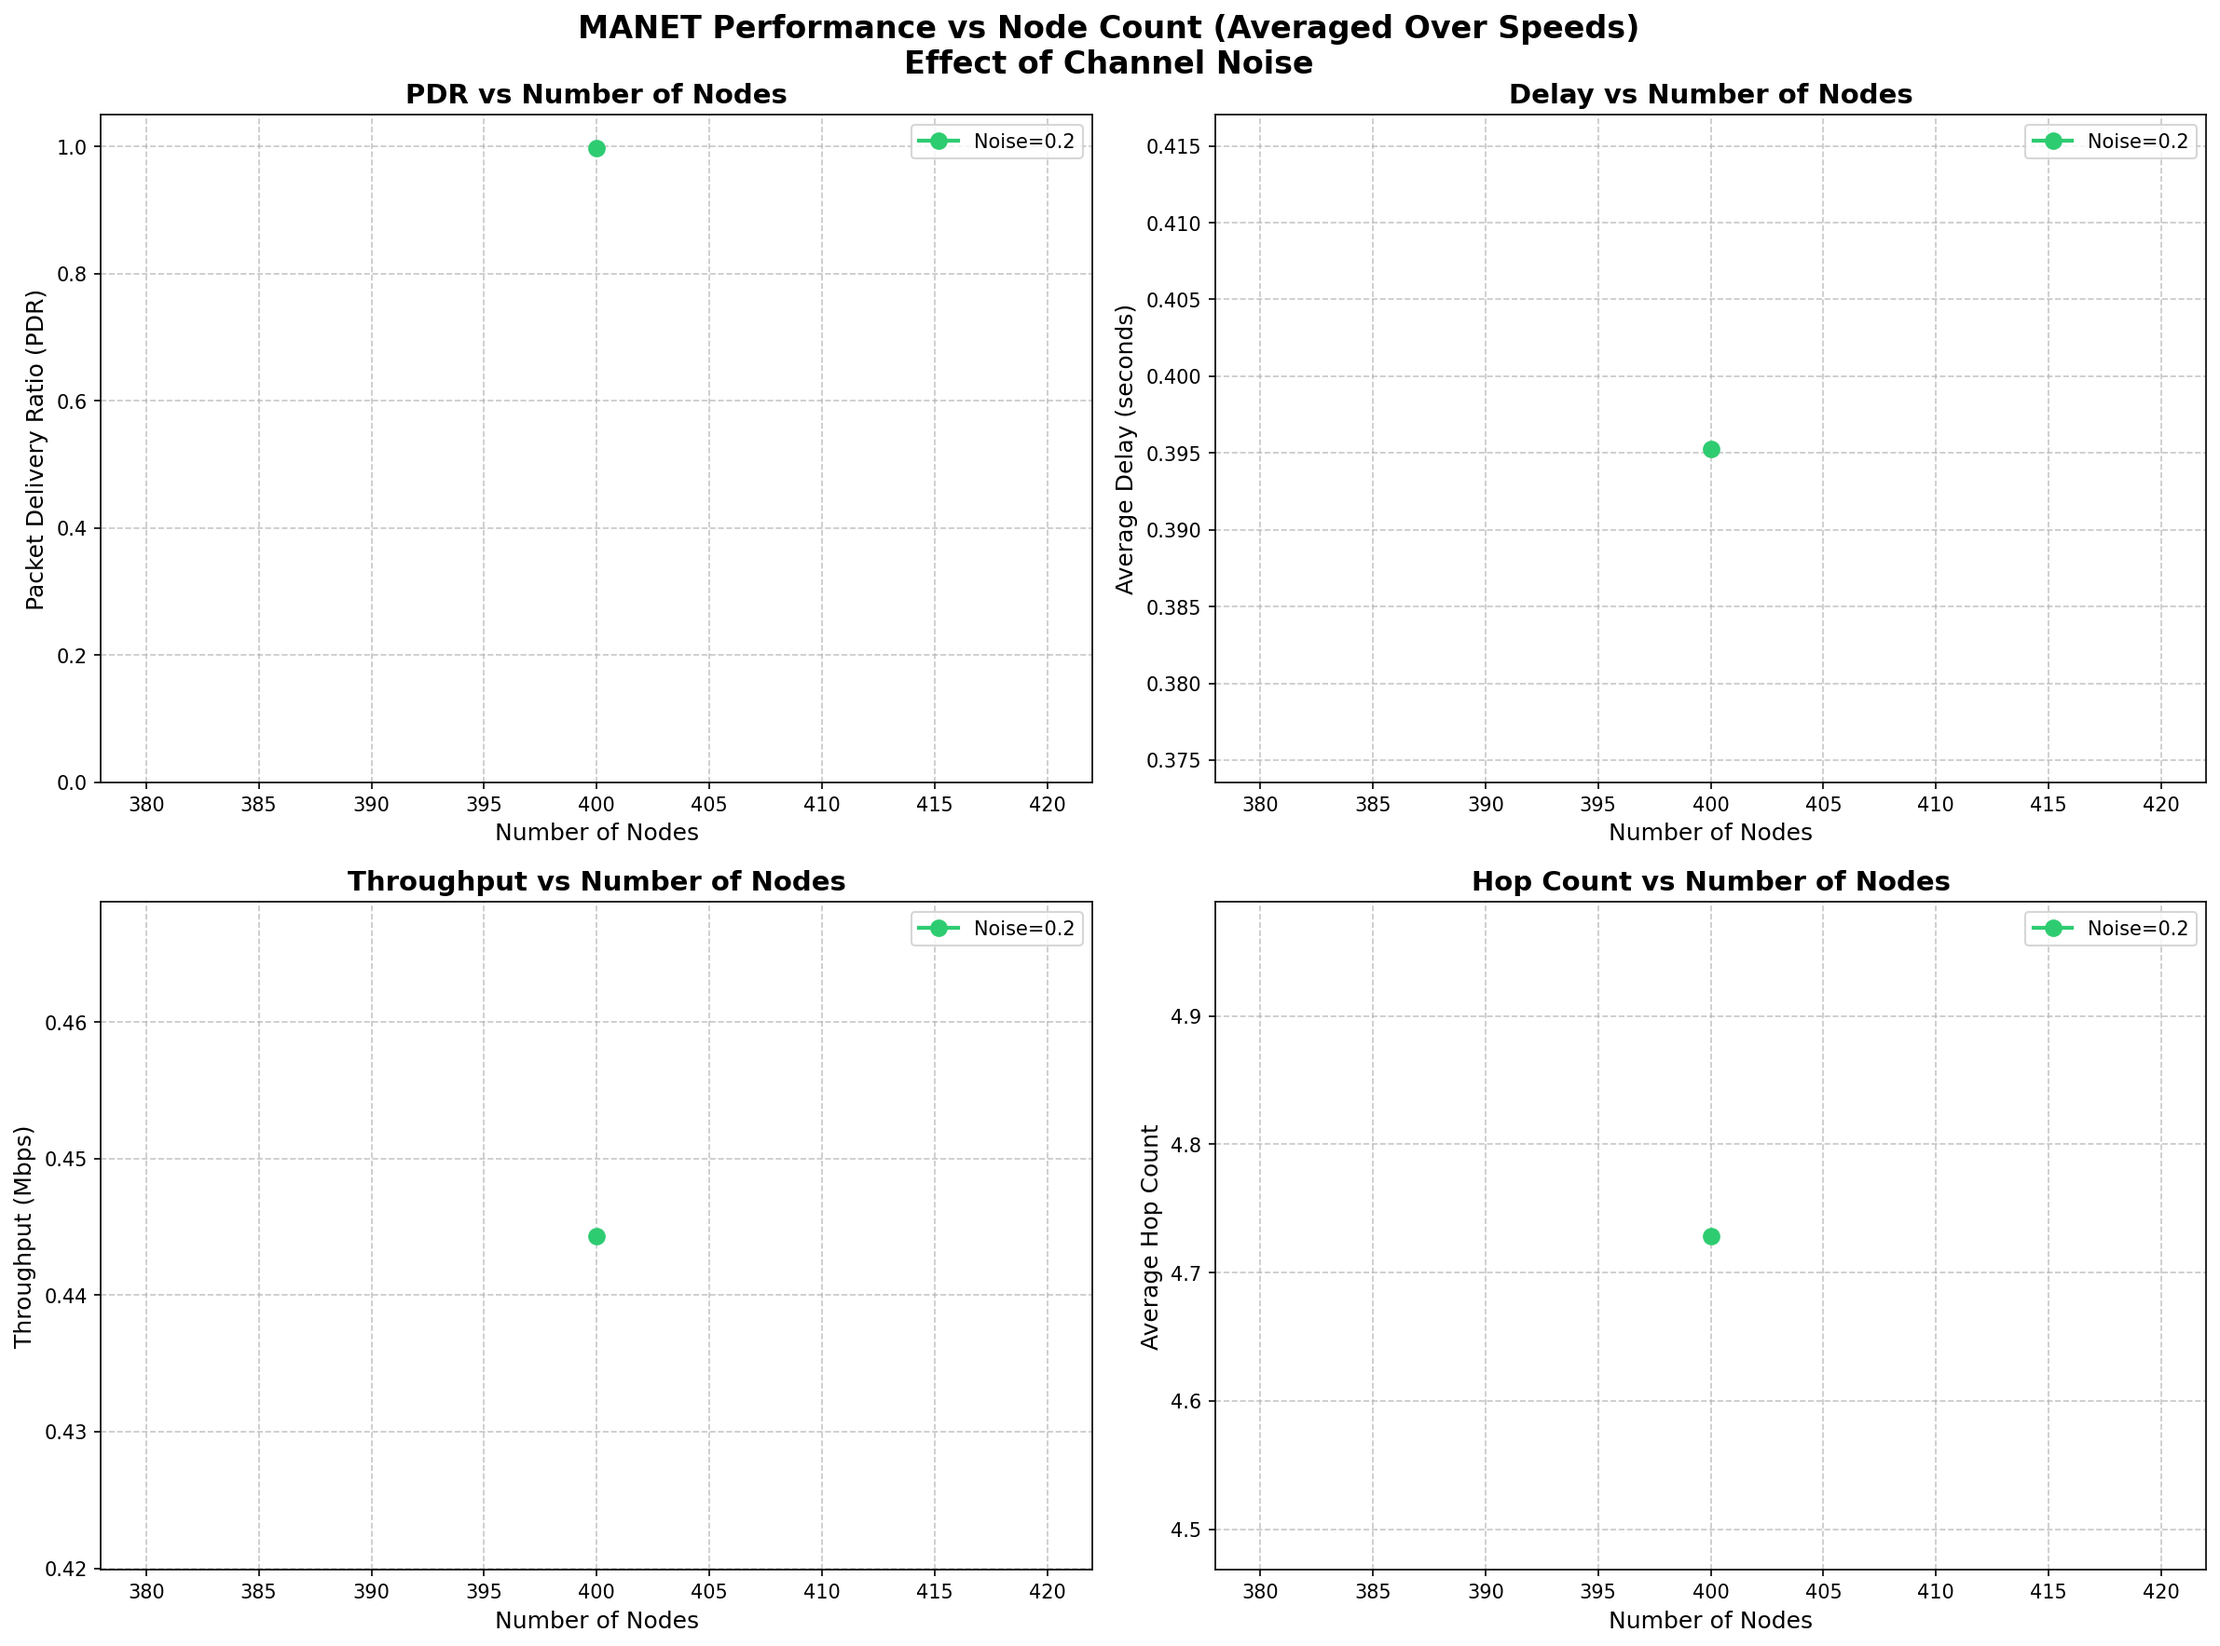
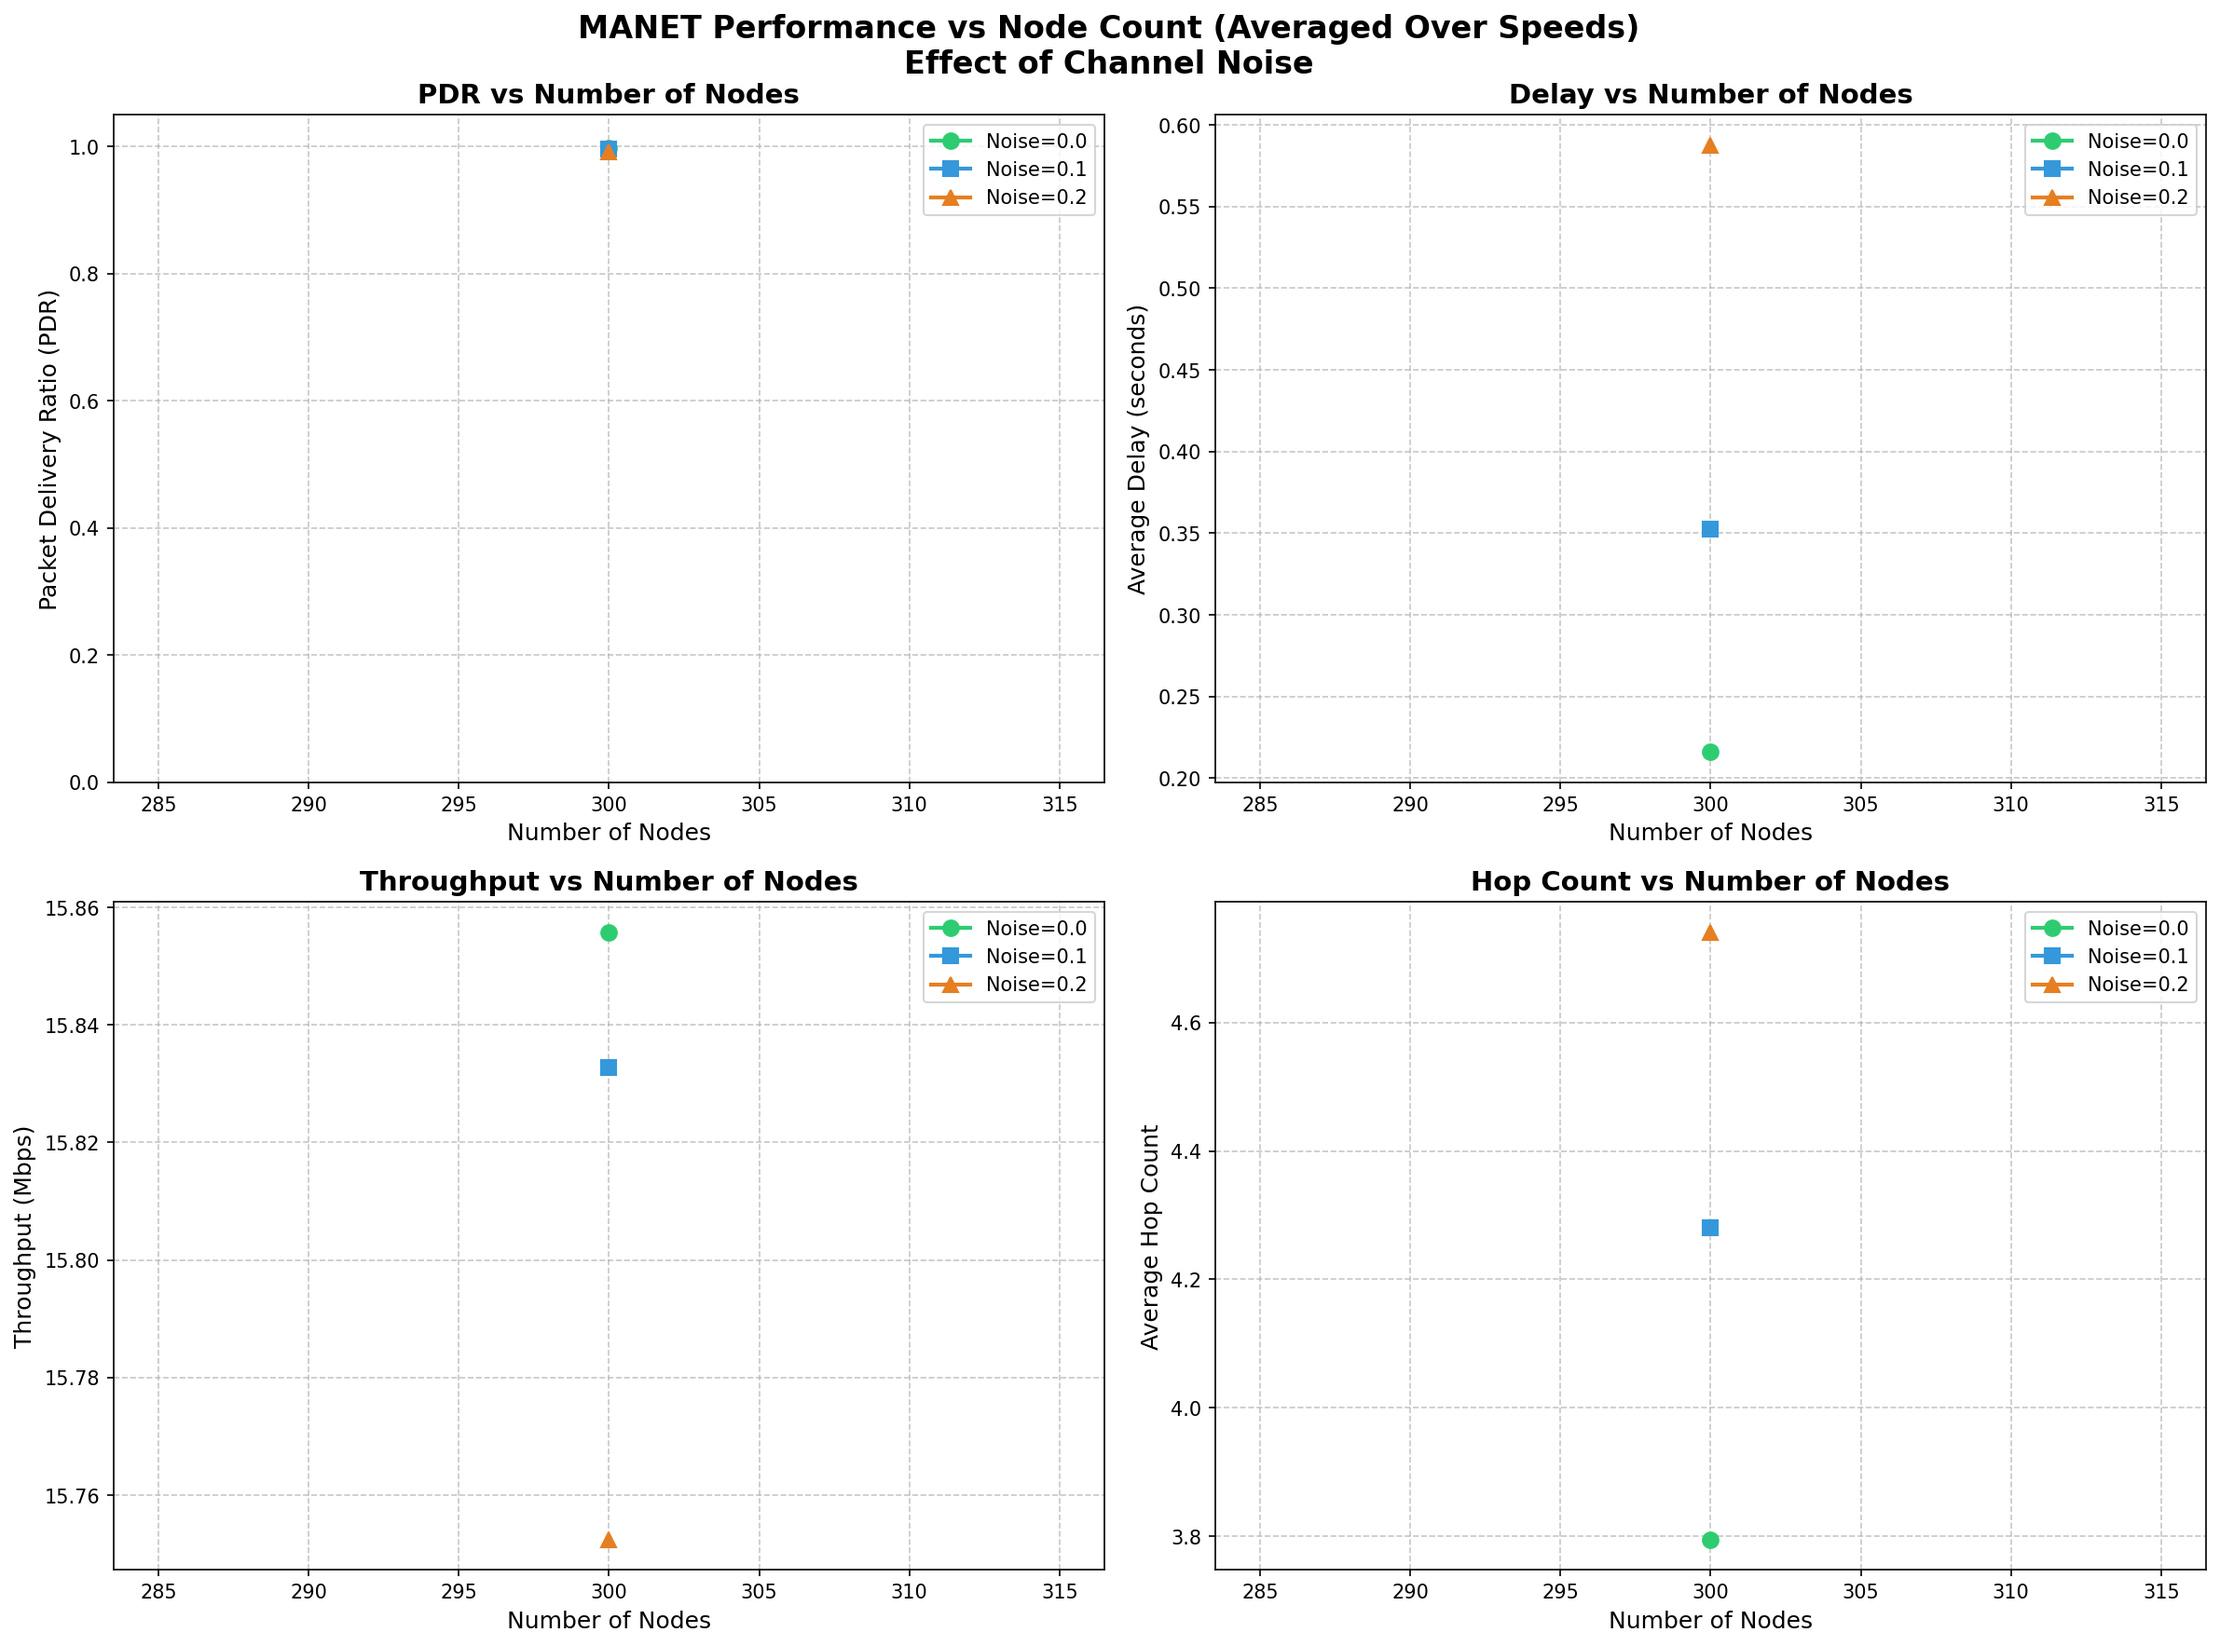
simulation results

diff --git a/manet_06_experiments.py b/manet_06_experiments.py
@@ -623,7 +623,7 @@ def run_single_experiment(n_nodes, node_speed, num_steps=50, noise_level=0.0):
 
 def run_all_experiments():
     """Run experiments for all node counts, speeds, and noise levels."""
-    node_counts = [100,200,300,400,500]
+    node_counts = [300]
     speeds = [20,30,40]
     noise_levels = [0.0,0.1,0.2]
     num_steps = 100  # More steps for accurate throughput measurement
